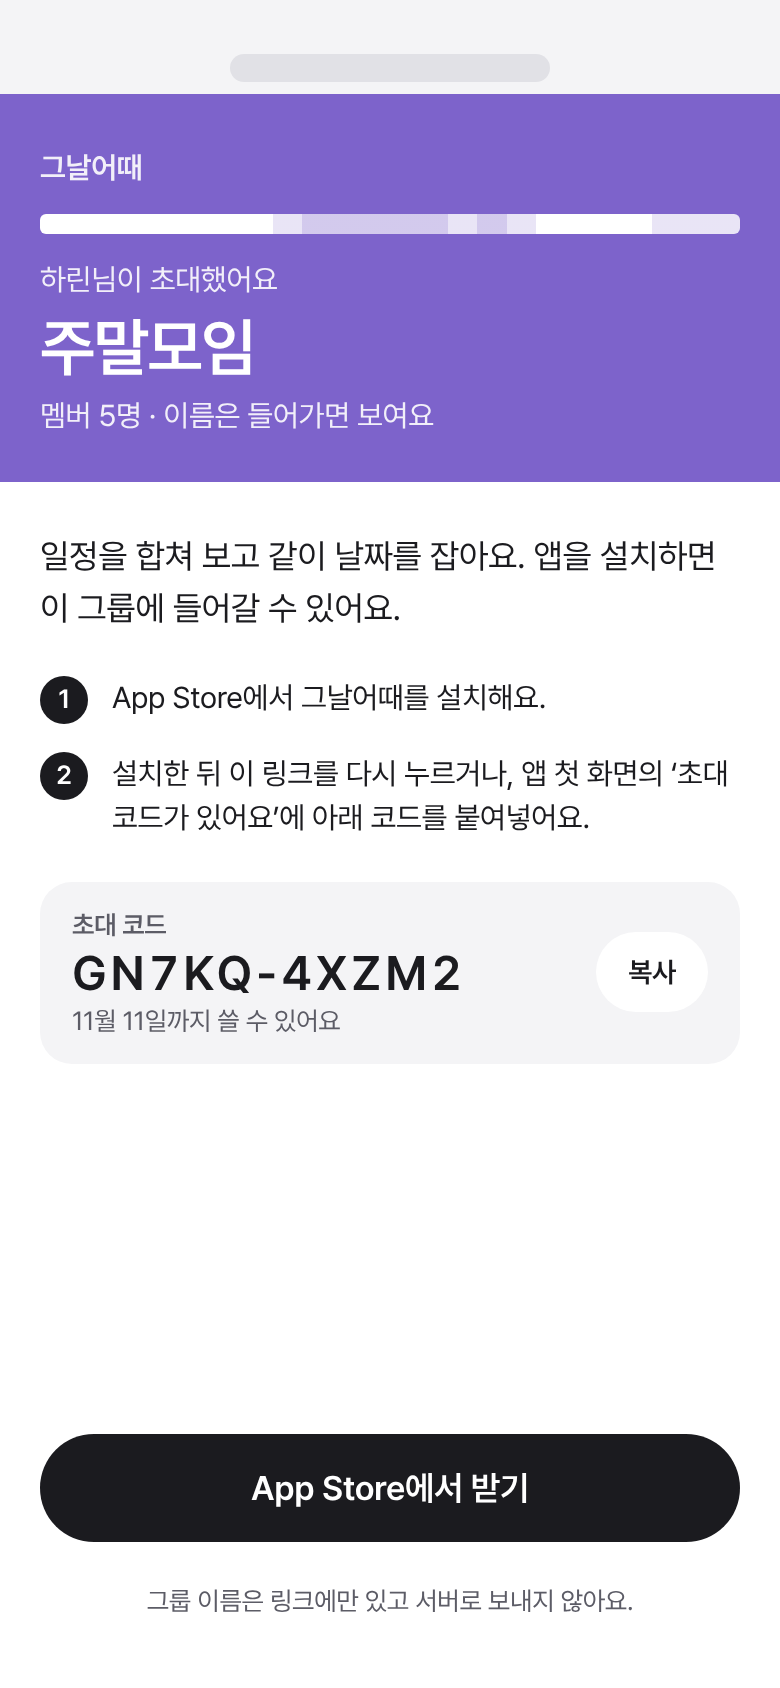
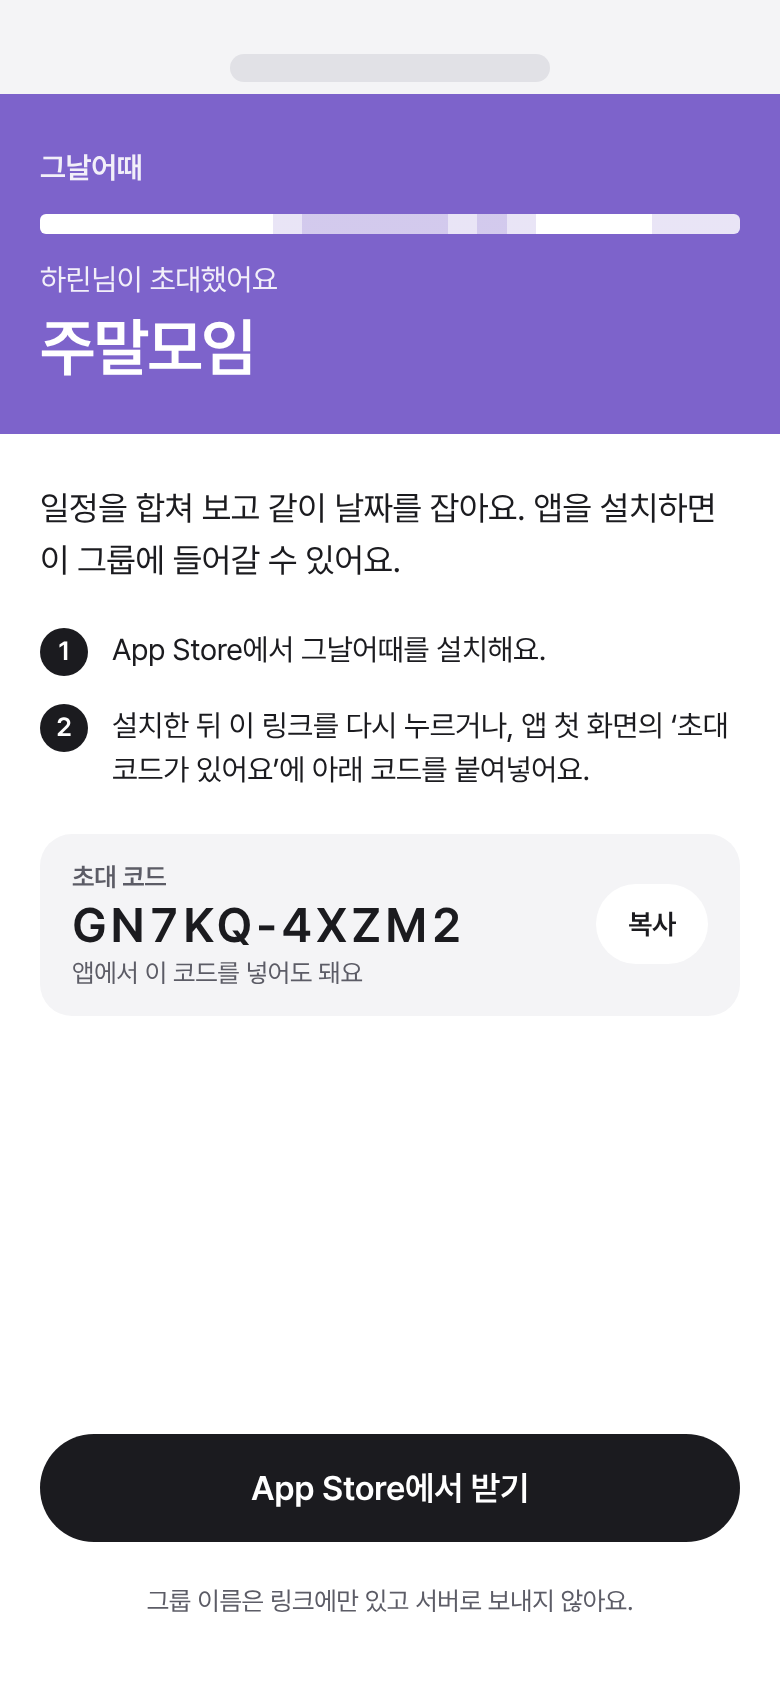
docs(design): serve the invite web page as a static page on the invite domain
The page lives on the invite domain's static hosting and never calls the
server, so it drops the member count, expiry and ended state, and reads
the inviter name from the link fragment alongside the group name.

Claude-Session: https://claude.ai/code/session_0132zdS6ZvVTjdo7UHj8sPRp

Changed region(s): [[0.0, 0.2156, 1.0, 0.6161], [0.8, 0.5237, 0.8615, 0.5853]]

diff --git a/docs/design/boards/InviteWeb.dc.html b/docs/design/boards/InviteWeb.dc.html
@@ -26,34 +26,27 @@ input{font:inherit;letter-spacing:inherit;color:inherit}
 <div style="display: flex; flex-direction: column; gap: 6px">
 <span style="font-size: 15px; opacity: 0.9">{{byLine}}</span>
 <h1 style="margin: 0; font-size: 32px; font-weight: 600; letter-spacing: -0.025em">주말모임</h1>
-<sc-if value="{{ok}}" hint-placeholder-val="{{true}}"><span style="font-size: 15px; opacity: 0.9">멤버 5명 · 이름은 들어가면 보여요</span></sc-if>
 </div>
 </header>
 
 <main style="flex: 1 1 0; padding: 24px 20px 34px; display: flex; flex-direction: column; gap: 20px">
-<sc-if value="{{ok}}" hint-placeholder-val="{{true}}">
 <p style="margin: 0; font-size: 17px; line-height: 1.55">일정을 합쳐 보고 같이 날짜를 잡아요. 앱을 설치하면 이 그룹에 들어갈 수 있어요.</p>
 <ol style="margin: 0; padding: 0; list-style: none; display: flex; flex-direction: column; gap: 14px">
 <li style="display: flex; gap: 12px; align-items: flex-start"><span style="flex: none; width: 24px; height: 24px; border-radius: 999px; background: #1b1b1f; color: #ffffff; display: flex; align-items: center; justify-content: center; font-size: 13px; font-weight: 600">1</span><span style="font-size: 15px; line-height: 1.5">{{step1}}</span></li>
 <li style="display: flex; gap: 12px; align-items: flex-start"><span style="flex: none; width: 24px; height: 24px; border-radius: 999px; background: #1b1b1f; color: #ffffff; display: flex; align-items: center; justify-content: center; font-size: 13px; font-weight: 600">2</span><span style="font-size: 15px; line-height: 1.5">{{step2}}</span></li>
 </ol>
 <div style="display: flex; align-items: center; gap: 12px; padding: 14px 16px; border-radius: 16px; background: #f4f4f6">
-<span style="flex: 1 1 0; display: flex; flex-direction: column; gap: 2px"><span style="font-size: 13px; font-weight: 600; color: #5c5c66">초대 코드</span><span style="font-size: 24px; font-weight: 600; letter-spacing: 0.08em; font-variant-numeric: tabular-nums">GN7KQ-4XZM2</span><span style="font-size: 13px; color: #5c5c66">11월 11일까지 쓸 수 있어요</span></span>
+<span style="flex: 1 1 0; display: flex; flex-direction: column; gap: 2px"><span style="font-size: 13px; font-weight: 600; color: #5c5c66">초대 코드</span><span style="font-size: 24px; font-weight: 600; letter-spacing: 0.08em; font-variant-numeric: tabular-nums">GN7KQ-4XZM2</span><span style="font-size: 13px; color: #5c5c66">앱에서 이 코드를 넣어도 돼요</span></span>
 <button type="button" style="height: 40px; padding: 0 16px; border: none; border-radius: 999px; background: #ffffff; font-size: 14px; font-weight: 600; cursor: pointer">복사</button>
 </div>
 <a href="Join.dc.html" style="margin-top: auto; height: 54px; border-radius: 999px; background: #1b1b1f; color: #ffffff; display: flex; align-items: center; justify-content: center; font-size: 17px; font-weight: 600">{{storeLabel}}</a>
 <span style="text-align: center; font-size: 13px; line-height: 1.5; color: #5c5c66">그룹 이름은 링크에만 있고 서버로 보내지 않아요.</span>
-</sc-if>
-<sc-if value="{{ended}}" hint-placeholder-val="{{false}}">
-<div role="alert" style="padding: 16px; border-radius: 16px; background: #fdecea; color: #b3261e; font-size: 15px; line-height: 1.5; font-weight: 600">쓸 수 없는 초대예요. 코드를 다시 확인하거나 초대한 사람에게 새 링크를 받아 주세요.</div>
-<a href="Welcome.dc.html" style="margin-top: auto; height: 54px; border-radius: 999px; background: #ebebef; display: flex; align-items: center; justify-content: center; font-size: 17px; font-weight: 600">{{storeLabelPlain}}</a>
-</sc-if>
 </main>
 </div>
 
 </div>
 </x-dc>
-<script type="text/x-dc" data-dc-script data-props='{"groupColor":{"editor":"enum","options":["토마토","귤","겨자","올리브","숲","민트","하늘","바다","포도","자두","벚꽃","코코아"],"default":"포도"},"platform":{"editor":"enum","options":["iOS","안드로이드"],"default":"iOS"},"state":{"editor":"enum","options":["정상","끝남"],"default":"정상"},"$preview":{"width":390,"height":844}}'>
+<script type="text/x-dc" data-dc-script data-props='{"groupColor":{"editor":"enum","options":["토마토","귤","겨자","올리브","숲","민트","하늘","바다","포도","자두","벚꽃","코코아"],"default":"포도"},"platform":{"editor":"enum","options":["iOS","안드로이드"],"default":"iOS"},"$preview":{"width":390,"height":844}}'>
 class Component extends DCLogic {
   renderVals() {
     const RAMPS = {
@@ -73,20 +66,15 @@ class Component extends DCLogic {
     const ramp = RAMPS[this.props.groupColor ?? '포도'] || RAMPS['포도'];
     const g = { s1: ramp[0], s2: ramp[1], s3: ramp[2], s4: ramp[3], s5: ramp[4] };
     const android = this.props.platform === '안드로이드';
-    const ended = this.props.state === '끝남';
     const steps = '555555554333334345555444'.split('');
     const stripOn = 'linear-gradient(to right, ' + steps.map((ch, i) => 'rgba(255,255,255,' + (0.15 + Number(ch) * 0.17).toFixed(2) + ') ' + ((i * 100) / 24).toFixed(3) + '% ' + (((i + 1) * 100) / 24).toFixed(3) + '%').join(', ') + ')';
     // Android carries the code through Install Referrer; iOS needs the link tapped again or the code pasted.
     return {
-      g, stripOn, ok: !ended, ended,
-      // An ended invite drops the group color: the page no longer vouches for the group.
-      headBg: ended ? '#5c5c66' : g.s5,
-      // The server returns no preview for an ended code, so only the link's group name remains.
-      byLine: ended ? '초대받은 그룹' : '하린님이 초대했어요',
+      // The page never calls the server: group name, color and inviter all come from the link fragment.
+      g, stripOn, headBg: g.s5, byLine: '하린님이 초대했어요',
       step1: android ? 'Google Play에서 그날어때를 설치해요.' : 'App Store에서 그날어때를 설치해요.',
       step2: android ? '앱을 열면 이 초대가 그대로 이어져요.' : '설치한 뒤 이 링크를 다시 누르거나, 앱 첫 화면의 ‘초대 코드가 있어요’에 아래 코드를 붙여넣어요.',
       storeLabel: android ? 'Google Play에서 받기' : 'App Store에서 받기',
-      storeLabelPlain: android ? 'Google Play에서 그날어때 보기' : 'App Store에서 그날어때 보기',
     };
   }
 }

diff --git a/docs/design/screens.md b/docs/design/screens.md
@@ -107,10 +107,10 @@
 | <img src="screens/m2/01-groups@2x.png" width="240" alt="그룹 목록"> | <img src="screens/m2/02-invite@2x.png" width="240" alt="초대 보내기"> | <img src="screens/m2/03-join@2x.png" width="240" alt="초대 받은 사람"> |
 | 그룹마다 다음 약속이나 최근 소식, 응답할 일 배지. | 카카오톡 초대, 링크 복사, 초대 코드, 카카오톡 미리보기 카드. | 참여하면 그룹에 무엇이 보이는지, 공유 기간과 포함할 캘린더를 먼저 보여 줍니다. |
 
-| 초대 웹 페이지(앱이 없을 때) | 쓸 수 없는 초대 |
-| --- | --- |
-| <img src="screens/m2/21-invite-web@2x.png" width="240" alt="초대 웹 페이지"> | <img src="screens/m2/21-invite-web--ended@2x.png" width="240" alt="쓸 수 없는 초대 웹 페이지"> |
-| 누가 어느 그룹에 초대했는지, 설치 단계, 초대 코드. 안드로이드는 2단계가 "앱을 열면 이 초대가 그대로 이어져요"입니다. | 없는 코드·끝난 코드·다 쓴 코드를 한 문구로. 링크의 그룹 이름만 남깁니다. |
+| 초대 웹 페이지(앱이 없을 때) |
+| --- |
+| <img src="screens/m2/21-invite-web@2x.png" width="240" alt="초대 웹 페이지"> |
+| 링크의 #에서 읽은 그룹 이름·색·초대한 사람, 설치 단계, 초대 코드. 서버에 묻지 않는 정적 페이지입니다. 안드로이드는 2단계가 "앱을 열면 이 초대가 그대로 이어져요"입니다. |
 
 ### 날짜 잡기: 날 탭 → 30분 테이블 → 신청
 
